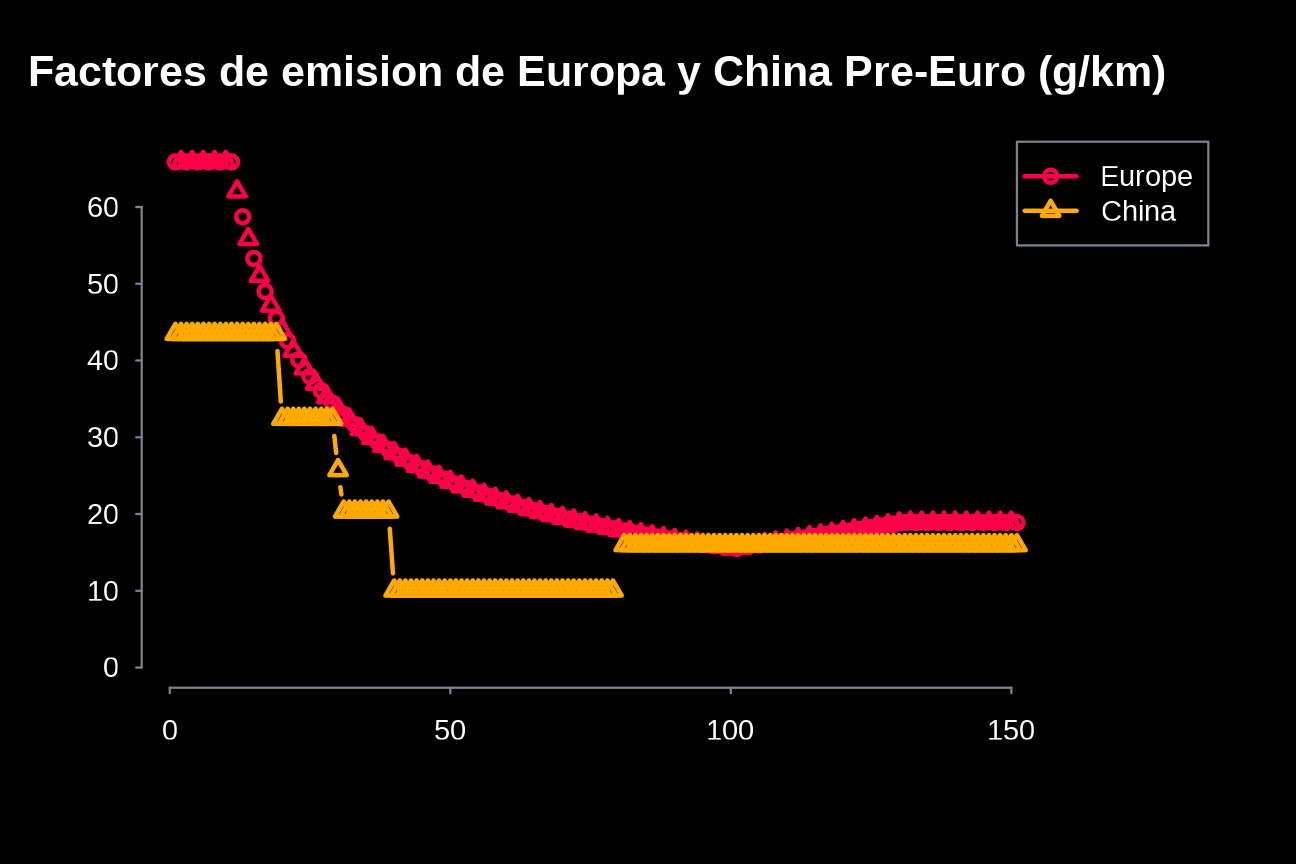
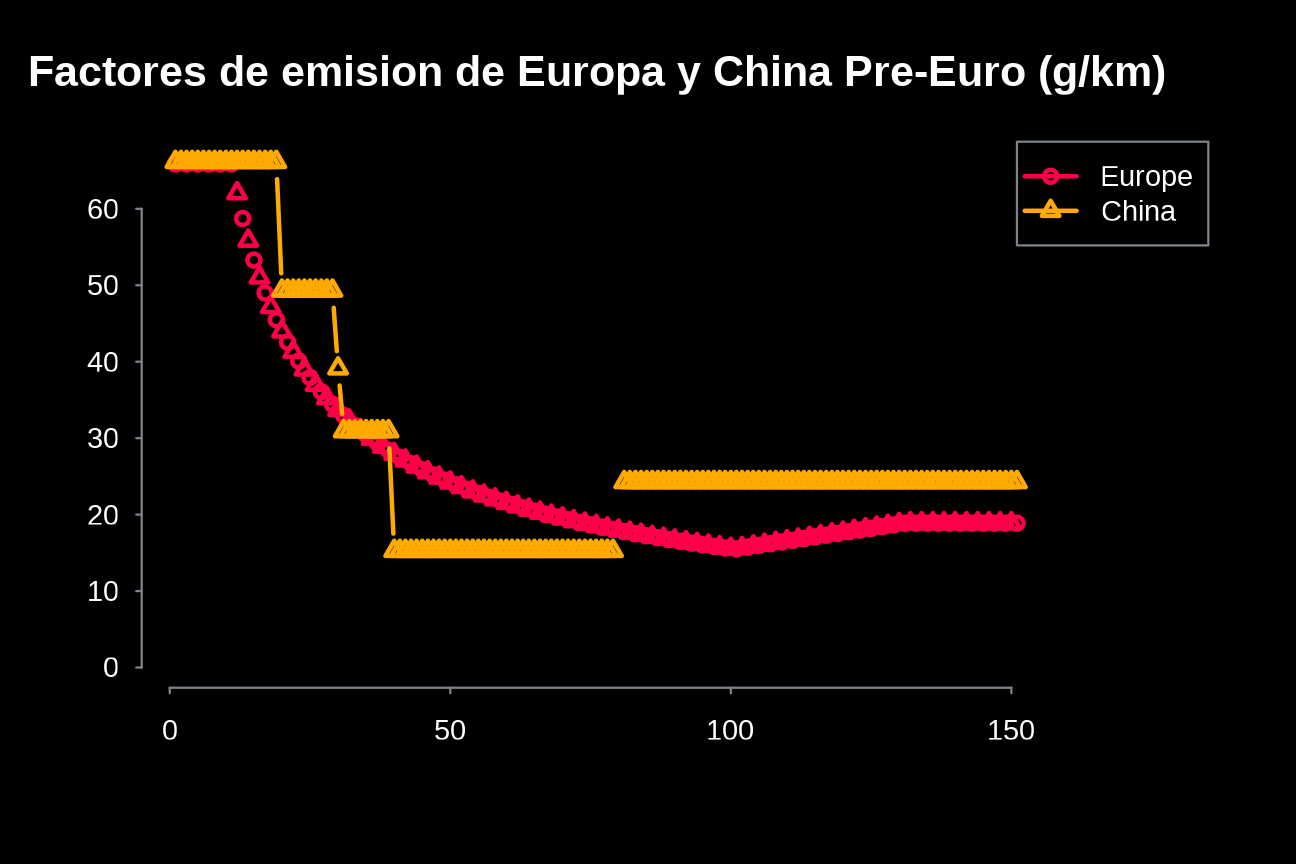
add video wrfchemi

diff --git a/index.html b/index.html
@@ -54,15 +54,15 @@ class: center, middle, inverse, title-slide
 ## Que son las emisiones vehiculares?
 
 - Emisiones de tubo de escape.
-- **Tubo de escape**. Emisiones con temperatura de motor y dispositivos de operacion.
-- **Partidas en frio**. Emisiones con temperatura menor a temperatur optima motor y dispositivos
+  - **Tubo de escape**. Emisiones con temperatura de motor y dispositivos de operacion.
+  - **Partidas en frio**. Emisiones con temperatura menor a temperatur optima motor y dispositivos
 - **[Evaporativas](https://www.eea.europa.eu/publications/emep-eea-guidebook-2019/part-b-sectoral-guidance-chapters/1-energy/1-a-combustion/1-a-3-b-v/view)**
-- **Evaporativas hot-soak**: [hidrocarburos evaporados](https://nepis.epa.gov/Exe/ZyNET.exe/P1001DHA.txt?ZyActionD=ZyDocument&amp;Client=EPA&amp;Index=1995%20Thru%201999&amp;Docs=&amp;Query=&amp;Time=&amp;EndTime=&amp;SearchMethod=1&amp;TocRestrict=n&amp;Toc=&amp;TocEntry=&amp;QField=&amp;QFieldYear=&amp;QFieldMonth=&amp;QFieldDay=&amp;UseQField=&amp;IntQFieldOp=0&amp;ExtQFieldOp=0&amp;XmlQuery=&amp;File=D%3A%5CZYFILES%5CINDEX%20DATA%5C95THRU99%5CTXT%5C00000021%5CP1001DHA.txt&amp;User=ANONYMOUS&amp;Password=anonymous&amp;SortMethod=h%7C-&amp;MaximumDocuments=1&amp;FuzzyDegree=0&amp;ImageQuality=r75g8/r75g8/x150y150g16/i425&amp;Display=hpfr&amp;DefSeekPage=x&amp;SearchBack=ZyActionL&amp;Back=ZyActionS&amp;BackDesc=Results%20page&amp;MaximumPages=1&amp;ZyEntry=12#) del vehiculo detenido, despues de parar el motor.
-- **Evaporativas running losses**: son los [hidrocarburos evaporados emitidos](https://nepis.epa.gov/Exe/ZyNET.exe/P1001DHA.txt?ZyActionD=ZyDocument&amp;Client=EPA&amp;Index=1995%20Thru%201999&amp;Docs=&amp;Query=&amp;Time=&amp;EndTime=&amp;SearchMethod=1&amp;TocRestrict=n&amp;Toc=&amp;TocEntry=&amp;QField=&amp;QFieldYear=&amp;QFieldMonth=&amp;QFieldDay=&amp;UseQField=&amp;IntQFieldOp=0&amp;ExtQFieldOp=0&amp;XmlQuery=&amp;File=D%3A%5CZYFILES%5CINDEX%20DATA%5C95THRU99%5CTXT%5C00000021%5CP1001DHA.txt&amp;User=ANONYMOUS&amp;Password=anonymous&amp;SortMethod=h%7C-&amp;MaximumDocuments=1&amp;FuzzyDegree=0&amp;ImageQuality=r75g8/r75g8/x150y150g16/i425&amp;Display=hpfr&amp;DefSeekPage=x&amp;SearchBack=ZyActionL&amp;Back=ZyActionS&amp;BackDesc=Results%20page&amp;MaximumPages=1&amp;ZyEntry=12#) con el vehiculo en movimiento.
-- **Evaporativas diurnal**: evaporacion diaria de [hidrocarburos](https://nepis.epa.gov/Exe/ZyNET.exe/P10021Q4.TXT?ZyActionD=ZyDocument&amp;Client=EPA&amp;Index=2000+Thru+2005&amp;Docs=&amp;Query=&amp;Time=&amp;EndTime=&amp;SearchMethod=1&amp;TocRestrict=n&amp;Toc=&amp;TocEntry=&amp;QField=&amp;QFieldYear=&amp;QFieldMonth=&amp;QFieldDay=&amp;IntQFieldOp=0&amp;ExtQFieldOp=0&amp;XmlQuery=&amp;File=D%3A%5Czyfiles%5CIndex%20Data%5C00thru05%5CTxt%5C00000017%5CP10021Q4.txt&amp;User=ANONYMOUS&amp;Password=anonymous&amp;SortMethod=h%7C-&amp;MaximumDocuments=1&amp;FuzzyDegree=0&amp;ImageQuality=r75g8/r75g8/x150y150g16/i425&amp;Display=hpfr&amp;DefSeekPage=x&amp;SearchBack=ZyActionL&amp;Back=ZyActionS&amp;BackDesc=Results%20page&amp;MaximumPages=1&amp;ZyEntry=1&amp;SeekPage=x&amp;ZyPURL#) por variacion de temperatura  
+  - **Evaporativas hot-soak**: [hidrocarburos evaporados](https://nepis.epa.gov/Exe/ZyNET.exe/P1001DHA.txt?ZyActionD=ZyDocument&amp;Client=EPA&amp;Index=1995%20Thru%201999&amp;Docs=&amp;Query=&amp;Time=&amp;EndTime=&amp;SearchMethod=1&amp;TocRestrict=n&amp;Toc=&amp;TocEntry=&amp;QField=&amp;QFieldYear=&amp;QFieldMonth=&amp;QFieldDay=&amp;UseQField=&amp;IntQFieldOp=0&amp;ExtQFieldOp=0&amp;XmlQuery=&amp;File=D%3A%5CZYFILES%5CINDEX%20DATA%5C95THRU99%5CTXT%5C00000021%5CP1001DHA.txt&amp;User=ANONYMOUS&amp;Password=anonymous&amp;SortMethod=h%7C-&amp;MaximumDocuments=1&amp;FuzzyDegree=0&amp;ImageQuality=r75g8/r75g8/x150y150g16/i425&amp;Display=hpfr&amp;DefSeekPage=x&amp;SearchBack=ZyActionL&amp;Back=ZyActionS&amp;BackDesc=Results%20page&amp;MaximumPages=1&amp;ZyEntry=12#) del vehiculo detenido, despues de parar el motor.
+  - **Evaporativas running losses**: son los [hidrocarburos evaporados emitidos](https://nepis.epa.gov/Exe/ZyNET.exe/P1001DHA.txt?ZyActionD=ZyDocument&amp;Client=EPA&amp;Index=1995%20Thru%201999&amp;Docs=&amp;Query=&amp;Time=&amp;EndTime=&amp;SearchMethod=1&amp;TocRestrict=n&amp;Toc=&amp;TocEntry=&amp;QField=&amp;QFieldYear=&amp;QFieldMonth=&amp;QFieldDay=&amp;UseQField=&amp;IntQFieldOp=0&amp;ExtQFieldOp=0&amp;XmlQuery=&amp;File=D%3A%5CZYFILES%5CINDEX%20DATA%5C95THRU99%5CTXT%5C00000021%5CP1001DHA.txt&amp;User=ANONYMOUS&amp;Password=anonymous&amp;SortMethod=h%7C-&amp;MaximumDocuments=1&amp;FuzzyDegree=0&amp;ImageQuality=r75g8/r75g8/x150y150g16/i425&amp;Display=hpfr&amp;DefSeekPage=x&amp;SearchBack=ZyActionL&amp;Back=ZyActionS&amp;BackDesc=Results%20page&amp;MaximumPages=1&amp;ZyEntry=12#) con el vehiculo en movimiento.
+  - **Evaporativas diurnal**: evaporacion diaria de [hidrocarburos](https://nepis.epa.gov/Exe/ZyNET.exe/P10021Q4.TXT?ZyActionD=ZyDocument&amp;Client=EPA&amp;Index=2000+Thru+2005&amp;Docs=&amp;Query=&amp;Time=&amp;EndTime=&amp;SearchMethod=1&amp;TocRestrict=n&amp;Toc=&amp;TocEntry=&amp;QField=&amp;QFieldYear=&amp;QFieldMonth=&amp;QFieldDay=&amp;IntQFieldOp=0&amp;ExtQFieldOp=0&amp;XmlQuery=&amp;File=D%3A%5Czyfiles%5CIndex%20Data%5C00thru05%5CTxt%5C00000017%5CP10021Q4.txt&amp;User=ANONYMOUS&amp;Password=anonymous&amp;SortMethod=h%7C-&amp;MaximumDocuments=1&amp;FuzzyDegree=0&amp;ImageQuality=r75g8/r75g8/x150y150g16/i425&amp;Display=hpfr&amp;DefSeekPage=x&amp;SearchBack=ZyActionL&amp;Back=ZyActionS&amp;BackDesc=Results%20page&amp;MaximumPages=1&amp;ZyEntry=1&amp;SeekPage=x&amp;ZyPURL#) por variacion de temperatura  
 - Otras
-- **Frenos y neumaticos**: [desgaste de frenos y neumaticos](https://www.eea.europa.eu/publications/emep-eea-guidebook-2019/part-b-sectoral-guidance-chapters/1-energy/1-a-combustion/1-a-3-b-vi/view)
-- **Resuspension**: Emisiones cuando el material suspendido en las calles es [re-suspendido](https://www.epa.gov/air-emissions-factors-and-quantification/ap-42-fifth-edition-volume-i-chapter-13-miscellaneous-0) debido al paso de los vehiculos.
+  - **Frenos y neumaticos**: [desgaste de frenos y neumaticos](https://www.eea.europa.eu/publications/emep-eea-guidebook-2019/part-b-sectoral-guidance-chapters/1-energy/1-a-combustion/1-a-3-b-vi/view)
+  - **Resuspension**: Emisiones cuando el material suspendido en las calles es [re-suspendido](https://www.epa.gov/air-emissions-factors-and-quantification/ap-42-fifth-edition-volume-i-chapter-13-miscellaneous-0) debido al paso de los vehiculos.
 
 
 ---
@@ -253,13 +253,13 @@ class: inverse center middle
 
 .pull-right[
 - Procesos:
-- Procesa datos de actividad vehicular (bottom-up **o** top-down)
-- Selecciona factores de emision de Brazil, Estados Unidos, Europa o China.
-- Estima emisiones en cada hora y calle, para cada tipo de vehiculo.
-- Procesa las emisiones en bases de datos, calles y grillas.
-- Especia los contaminantes en compuestos especificos
-- Agrupo los compuestos en mas de 15 mecanismos quimicos
-- Generadots NetCDF para correr WRF/Chem
+  - Procesa datos de actividad vehicular (bottom-up **o** top-down)
+  - Selecciona factores de emision de Brazil, Estados Unidos, Europa o China.
+  - Estima emisiones en cada hora y calle, para cada tipo de vehiculo.
+  - Procesa las emisiones en bases de datos, calles y grillas.
+  - Especia los contaminantes en compuestos especificos
+  - Agrupo los compuestos en mas de 15 mecanismos quimicos
+  - Generadots NetCDF para correr WRF/Chem
 ]
 
 
@@ -407,7 +407,7 @@ ef1 &lt;- ef_ldv_speed(
 ef2 &lt;- unlist(lapply(seq_along(V), 
                      function(i){
                        ef_china(
-                         t = "Mini", 
+                         t = "Small", 
                          f = "G", 
                          standard = "PRE", 
                          p = "CO", 
